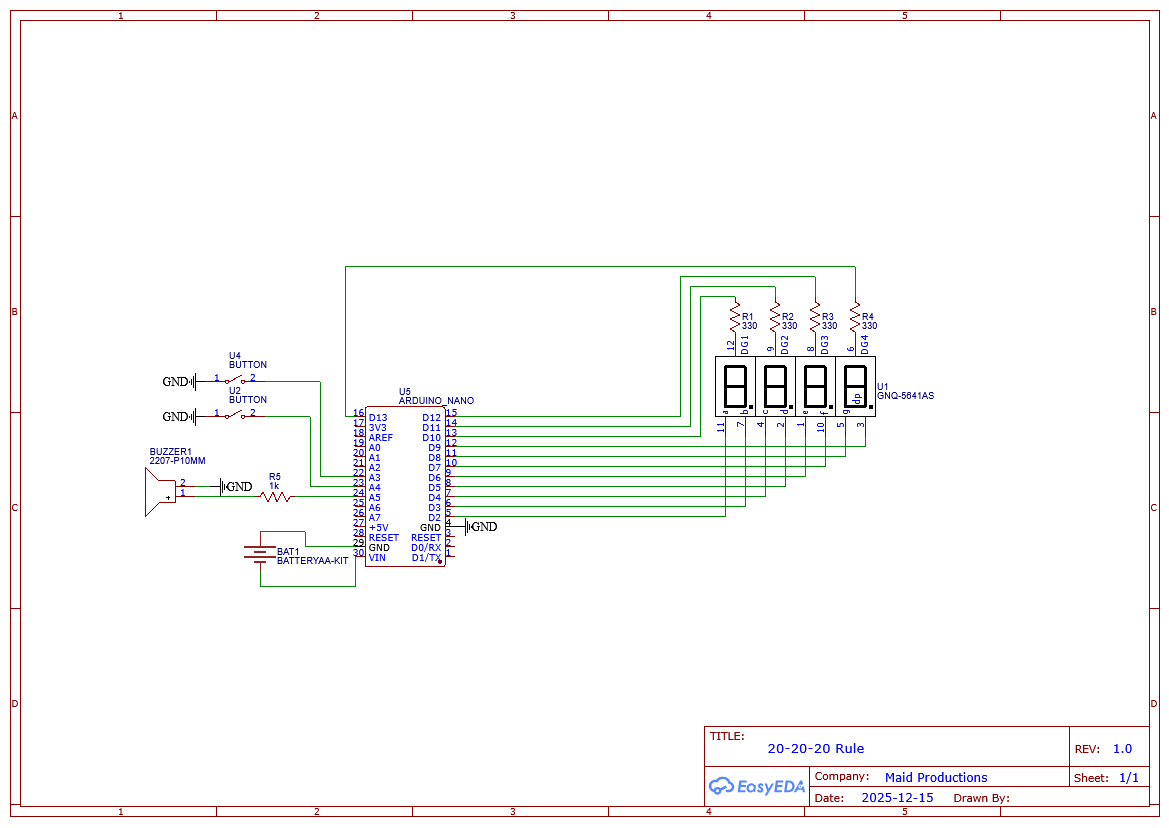
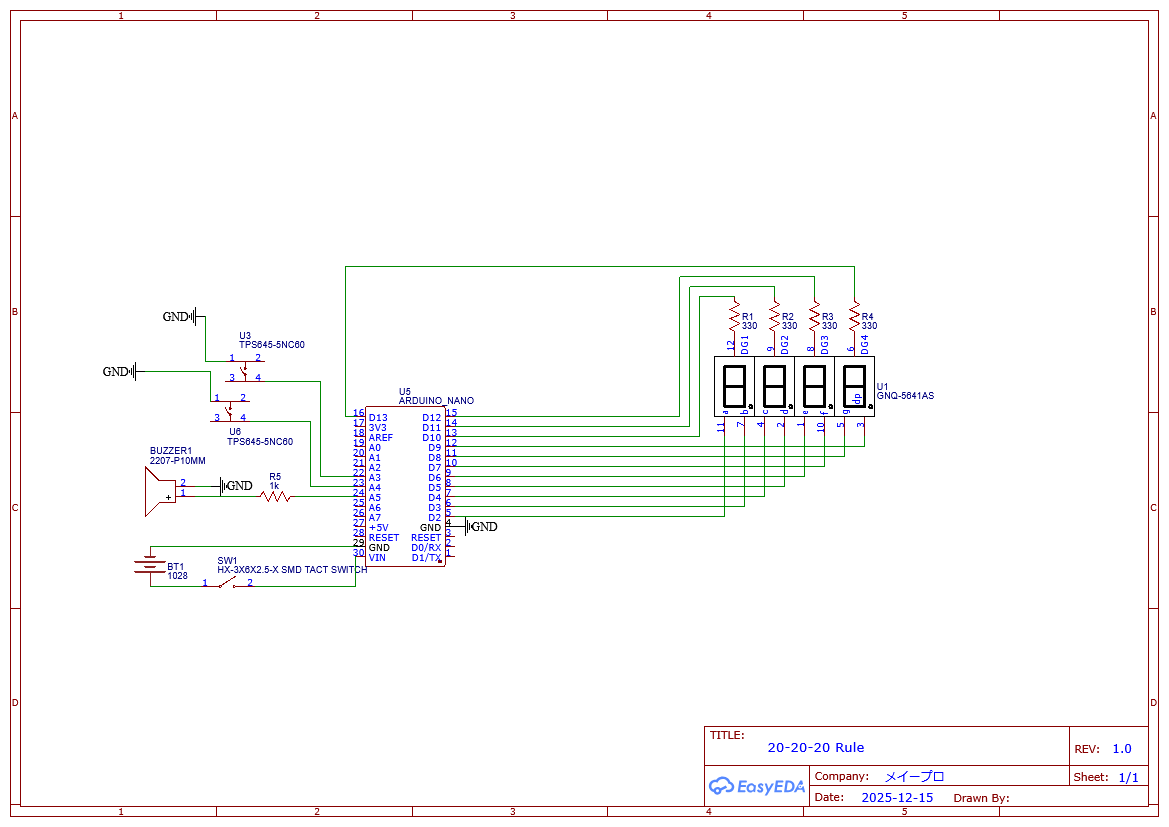
release updates

diff --git a/README.md b/README.md
@@ -17,6 +17,7 @@ button resets the cycle. You can also pause at any point by hitting the pause bu
 ## How do I use this?
 
 I used PIO to build and flash this onto my arduino. After that, just turn on the arduino with a power source of your choosing, and then hit the pause button.
+You can also use the firmware.elf file that I uploaded in the release folder, that should be the right output of the PIO build process.
 
 ## Can't I just use a timer?
 
@@ -24,10 +25,14 @@ Yes. There's nothing I like more than hyper specialized devices though so that's
 
 ## Is there a schematic for this?
 
-Yes, sort of? I've never worked with schematics before so it's probably terrible and awful. I'll... see about fixing it later.
+Yes, sort of? I've never worked with schematics before so it's probably terrible and awful.
 
 ![Schematic](Schematic/schematic.png)
 
+"why are you using those weird buttons/switches/parts?" Answer: Those were the parts I had from my kit and/or the parts available on EasyEDA so I could order it easily.
+
 ## What about a PCB?
 
-I'm working on it. As part of this project I'm going to trrrry and hook it up to a PCB and make it mini/portable since I think that would be cool.
+The gerber files are created in the Schematic folder, you should be able to use that to order from your preferred PCB manufacturer.
+Disclosure: I am NOT a PCB designer and this is literally the first PCB I've ever made, I haven't even tested it yet, these parts take a while
+to come in. 
